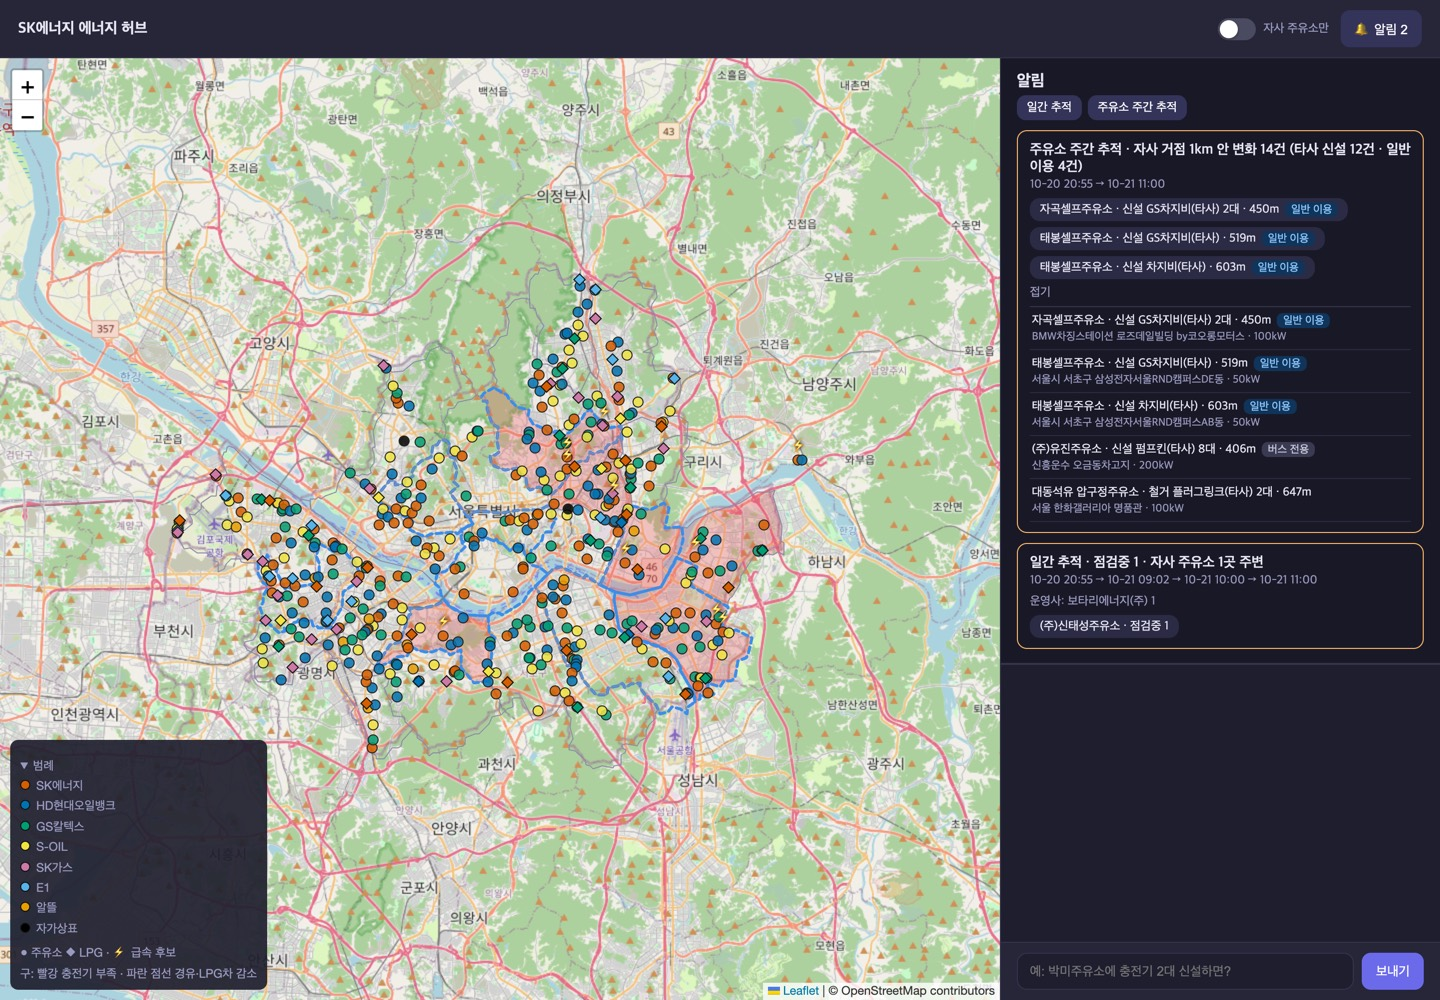
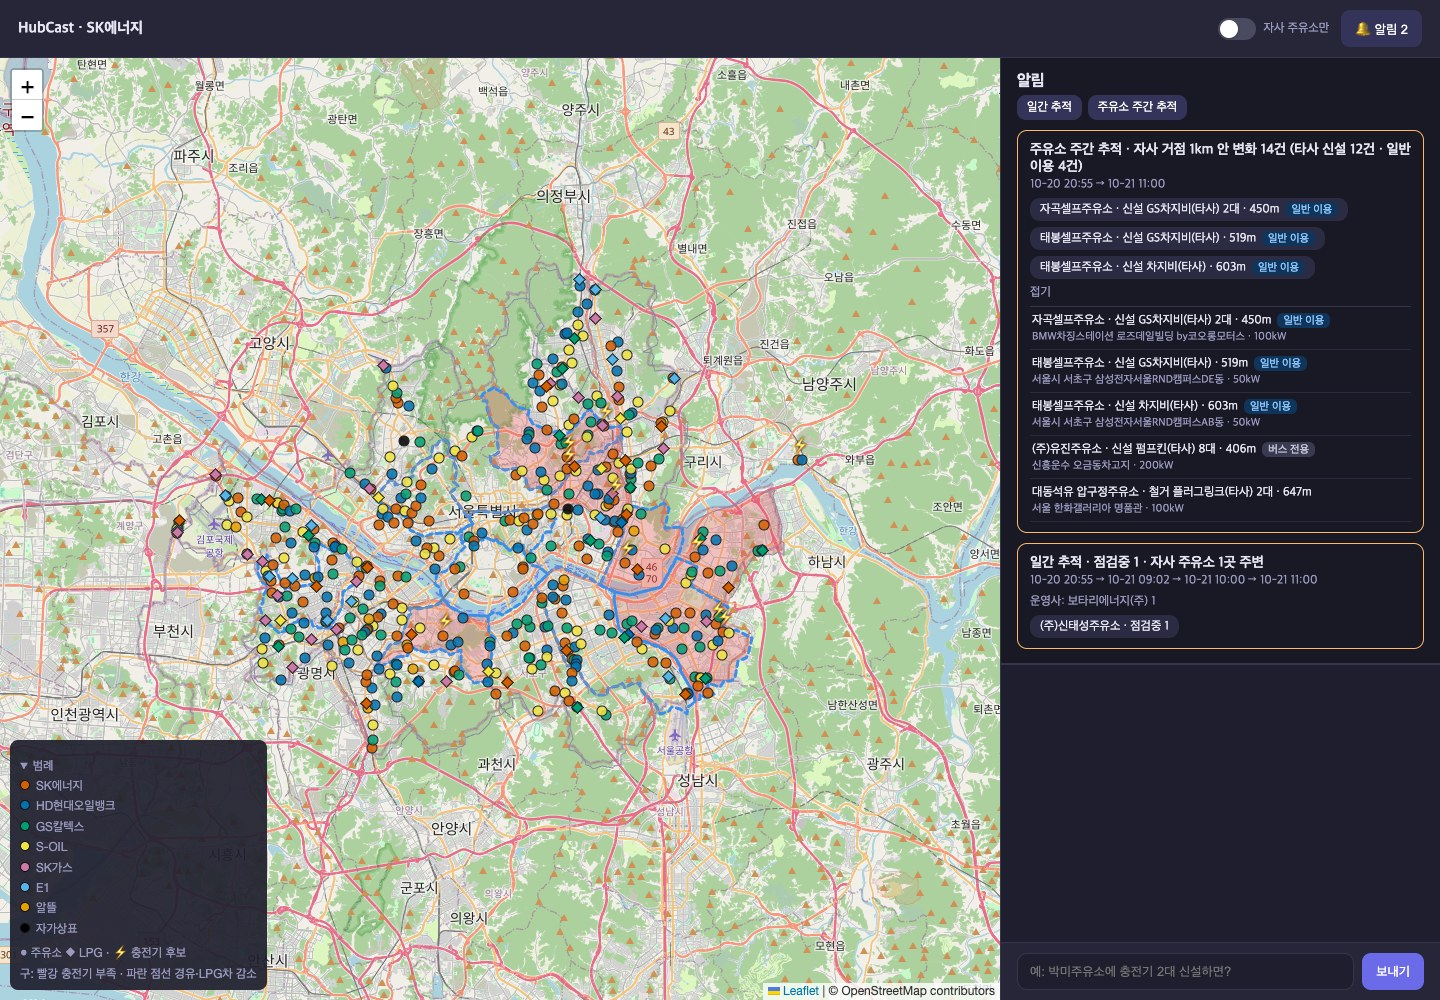
fix: 서비스명 HubCast 반영
- README 제목과 대시보드 탭·헤더를 HubCast로 변경

diff --git a/web_chat.html b/web_chat.html
@@ -3,7 +3,7 @@
 <head>
 <meta charset="utf-8" />
 <meta name="viewport" content="width=device-width, initial-scale=1" />
-<title>에너지 허브 대시보드</title>
+<title>HubCast</title>
 <link rel="stylesheet" href="https://unpkg.com/leaflet@1.9.4/dist/leaflet.css" />
 <style>
   :root { color-scheme: dark; --bg: #1e1e2e; --panel: #191926; --line: #34344a; --muted: #9a9ac0; --text: #e6e6f2; --accent: #6b6bea; }
@@ -126,7 +126,7 @@
 <body>
 <div id="app">
   <header>
-    <b>{{ company }} 에너지 허브</b>
+    <b>HubCast · {{ company }}</b>
     <label class="switch"><input type="checkbox" v-model="ownOnly" role="switch" /><span class="track"><span class="knob"></span></span> 자사 주유소만</label>
     <button type="button" class="ghost" @click="showAlerts">🔔 알림 {{ unread }}</button>
   </header>
@@ -163,10 +163,10 @@
             <div class="tile"><div class="v">{{ signed(panel.district.demand.fuels['경유'].rate_pct) }}%</div><div class="k">경유차 1년</div></div>
           </div>
           <div v-if="candidates.length" class="chips">
-            <span class="hint">⚡ 급속 후보</span>
+            <span class="hint">⚡ 충전기 후보</span>
             <span v-for="s in candidates" :key="s.station_id" class="chip" @click="focusStation(s.station_id)">{{ s.name }}</span>
           </div>
-          <div v-else class="why">급속 후보 없음 — 충전기 부족 구가 아님</div>
+          <div v-else class="why">충전기 후보 없음 — 충전기 부족 구가 아님</div>
           <details>
             <summary>거점 전체 · 연료별 수치</summary>
             <table>
@@ -284,7 +284,7 @@ const esc = s => String(s).replace(/[&<>"']/g, c => ({ '&': '&amp;', '<': '&lt;'
 // 화면에서는 출처 번호를 숨기고 "출처 번호 보기"로 펼친다 — 번호는 검증용이라 읽기에 방해가 됨
 const stripCites = t => t.replace(/\[[FJ]\d+\]/g, '').replace(/[ \t]+/g, ' ').trim();
 const ITEM_NAMES = { ev_bottleneck: '충전기 부족', diesel_idle: '경유차 감소', lpg_idle: 'LPG차 감소',
-  fast_candidates: '급속 후보', ev_bottleneck_before: '추가 전 부족', ev_bottleneck_after: '추가 후 부족' };
+  fast_candidates: '충전기 후보', ev_bottleneck_before: '추가 전 부족', ev_bottleneck_after: '추가 후 부족' };
 
 createApp({
   setup() {
@@ -400,7 +400,7 @@ createApp({
         const open = window.innerWidth > 900 ? ' open' : '';
         div.innerHTML = `<details${open}><summary>범례</summary>`
           + Object.entries(BRAND_COLORS).map(([b, c]) => `<div><i style="background:${c}"></i>${esc(b)}</div>`).join('')
-          + '<div style="margin-top:4px">● 주유소 ◆ LPG · ⚡ 급속 후보</div>'
+          + '<div style="margin-top:4px">● 주유소 ◆ LPG · ⚡ 충전기 후보</div>'
           + '<div>구: 빨강 충전기 부족 · 파란 점선 경유·LPG차 감소</div></details>';
         L.DomEvent.disableClickPropagation(div);
         return div;
@@ -431,7 +431,7 @@ createApp({
     // ── 정보 패널 ───────────────────────────────────────────────
     function stationWhy(card) {
       if (card.verdict.code === 'fast_candidate') return '⚡ ' + card.verdict.reasons.join(' · ');
-      const reasons = card.verdict.reasons.length ? card.verdict.reasons.join(' · ') : '급속 후보 조건에 해당하지 않음';
+      const reasons = card.verdict.reasons.length ? card.verdict.reasons.join(' · ') : '충전기 후보 조건에 해당하지 않음';
       const idle = (card.fuel_signals || []).filter(f => f.idle).map(f => `${f.fuel}차 감소 큰 구`).join(' · ');
       return idle ? `${reasons} · 🔻 ${idle}` : reasons;
     }

diff --git a/agent/answer_template.py b/agent/answer_template.py
@@ -74,7 +74,7 @@ class EnergyAnswer:
         c = self.cite
         chosen = self.value("fast_candidates") or []
         candidate = station_id in chosen
-        verdict = "⚡ 급속 후보입니다" if candidate else "이번 기준으로는 급속 후보가 아닙니다"
+        verdict = "⚡ 충전기 후보입니다" if candidate else "이번 기준으로는 충전기 후보가 아닙니다"
         lines = [f"4) 이 주유소: 주유소 안 급속 {c('in_station_fast_ids', '{}개')} · "
                  f"1km 안 급속 {c('fast_1km', '{}개')}{self.versus_typical()} "
                  f"→ {verdict}{self.j('fast_candidates')}"]
@@ -88,20 +88,20 @@ class EnergyAnswer:
     def cluster_lines(self) -> list[str]:
         chosen = self.value("fast_candidates") or []
         if not chosen:
-            return [f"4) 급속 후보{self.j('fast_candidates')}: 없음 (충전기 부족 구가 아님)"]
+            return [f"4) 충전기 후보{self.j('fast_candidates')}: 없음 (충전기 부족 구가 아님)"]
         marks = "①②③④"
         pri = self.priority()
         if pri.get("by") == "llm":
             picks = [f"{marks[i]} {self.name(sid)} — {pri['reasons'][sid]['text']}"
                      for i, sid in enumerate(chosen)]
-            head = f"4) 급속 후보{self.j('fast_candidates')} — 먼저 볼 순서 (AI 판단): "
+            head = f"4) 충전기 후보{self.j('fast_candidates')} — 먼저 볼 순서 (AI 판단): "
         else:
             picks = [f"{marks[i]} {self.name(sid)} — 1km 안 급속 {self.cite(f'fast_1km:{sid}', '{}개')}, "
                      f"주유소 안 급속 {self.cite(f'in_station_fast:{sid}', '{}개')}"
                      for i, sid in enumerate(chosen)]
-            head = f"4) 급속 후보{self.j('fast_candidates')}: "
+            head = f"4) 충전기 후보{self.j('fast_candidates')}: "
             if pri.get("by") == "fallback":
-                head = (f"4) 급속 후보{self.j('fast_candidates')} — AI 우선순위 판단이 검사를 "
+                head = (f"4) 충전기 후보{self.j('fast_candidates')} — AI 우선순위 판단이 검사를 "
                         "통과하지 못해 1km 안 급속이 적은 순: ")
         return [head + "  ".join(picks),
                 f"   나머지 주유소는 유지 (같은 구 자사 주유소 보통 1km 안 급속 "
@@ -233,14 +233,14 @@ class EnergyAnswer:
         chosen = self.value("fast_candidates") or []
         if request_type == "station":
             station_id = self.by_key["station"]["station_id"]
-            head = "급속 후보 아님"
+            head = "충전기 후보 아님"
             if station_id in chosen:
-                head = "⚡ 급속 후보"
+                head = "⚡ 충전기 후보"
                 if len(chosen) > 1:
                     head += f" — 같은 구 후보 {len(chosen)}곳 중 {ORDINALS[chosen.index(station_id)]}"
             parts = [head, ev]
         else:
-            first = f"급속 후보 {len(chosen)}곳 — 먼저 {self.name(chosen[0])}" if chosen else "급속 후보 없음"
+            first = f"충전기 후보 {len(chosen)}곳 — 먼저 {self.name(chosen[0])}" if chosen else "충전기 후보 없음"
             parts = [ev, first]
         return "요약: " + " · ".join(parts + idle)
 

diff --git a/agent/energy_prompts.py b/agent/energy_prompts.py
@@ -265,7 +265,7 @@ def normalize_judgement(content: str, request_type: str, facts: list[dict]) -> d
 # ── 분석 에이전트: 어디부터, 왜 ─────────────────────────────────────
 
 PRIORITY_SYSTEM = (
-    "당신은 정유사 투자 검토를 돕는 분석 에이전트다. 아래 급속 후보 거점들은 이미 기준으로 자격이 확정됐다. "
+    "당신은 정유사 투자 검토를 돕는 분석 에이전트다. 아래 충전기 후보 거점들은 이미 기준으로 자격이 확정됐다. "
     "어느 거점부터 현장 검토할지 순서와 이유를 정하라. 정답 규칙은 없다 — 사실을 저울질하는 것이 당신의 일이다.\n"
     "고려할 신호: 반경 1km 급속 수(적을수록 새 수요를 흡수할 여지), 충전 중 비율(높을수록 수요 확인, 한 시점 대리 지표), "
     "주변 새로 멈춘 급속(대체 수요가 생김), 타사 신설(경쟁이 세짐), 지난 사람 결정(보류면 사유 해소 전엔 뒤로).\n"
@@ -295,7 +295,7 @@ def priority_user(facts: list[dict], candidates: list[str]) -> str:
     """우선순위 판단 프롬프트의 사용자 메시지를 만드는 함수"""
     names = {f["station_id"]: f.get("name", f["station_id"]) for f in facts if f.get("station_id")}
     listed = "\n".join(f"- {sid} {names.get(sid, '')}" for sid in candidates)
-    return f"## 확정된 급속 후보\n{listed}\n\n## 후보 거점 사실\n{render_facts(facts)}"
+    return f"## 확정된 충전기 후보\n{listed}\n\n## 후보 거점 사실\n{render_facts(facts)}"
 
 
 def normalize_priority(content: str, candidates: list[str]) -> dict:
@@ -317,7 +317,7 @@ WRITE_SYSTEM = (
     "당신은 정유사 리테일 네트워크 관리자에게 보고하는 작성 에이전트다. 한국어로 짧게 쓴다.\n"
     "'답변 뼈대'를 읽기 쉬운 보고 문장으로 다듬어라. 규칙:\n"
     "1. 뼈대의 줄 순서, 모든 숫자, [F번호]·[J번호]를 그대로 남긴다. 숫자를 빼거나 바꾸거나 새로 만들지 않는다\n"
-    "2. 결론(충전기 부족·차량 감소·급속 후보)은 뼈대와 같아야 한다\n"
+    "2. 결론(충전기 부족·차량 감소·충전기 후보)은 뼈대와 같아야 한다\n"
     "3. 판매량·부지·전력처럼 사실에 없는 정보는 말하지 않는다\n"
     "4. 뼈대의 '현장 확인 항목' 줄과 마지막 안내 문장은 글자 그대로 둔다\n"
     "5. 뼈대에 없는 줄·제목·항목(예: 새 '현장 확인 항목', '안내')을 덧붙이지 않는다\n"

diff --git a/agent/fake_llm.py b/agent/fake_llm.py
@@ -131,7 +131,7 @@ class QualityLLM(FakeLLM):
 
     @traceable(run_type="llm", name="quality_llm.judge_energy")
     def judge_energy(self, request_type: str, facts: list[dict]) -> tuple[dict, dict]:
-        """분석 에이전트 판별(fake) — 사실 [F]만 보고 충전기 부족·차량 감소·급속 후보를 판별하는 함수
+        """분석 에이전트 판별(fake) — 사실 [F]만 보고 충전기 부족·차량 감소·충전기 후보를 판별하는 함수
 
         의도적 오판 1건: 경유는 감소율 순위 사실을 보지 않고 "줄었으면 차량 감소"로 판별한다.
         동대문구(경유 -4.8%, 25구 중 24위)에서 권위 게이트가 이를 교정하는 장면이 매번 재현된다.
@@ -203,11 +203,11 @@ class QualityLLM(FakeLLM):
 
     @traceable(run_type="llm", name="quality_llm.prioritize")
     def prioritize(self, facts: list[dict], candidates: list[str]) -> tuple[dict, dict]:
-        """급속 후보 우선순위 판단(fake) — 보류 결정은 뒤로, 충전 중 비율이 높고 주변 급속이 적은 곳부터
+        """충전기 후보 우선순위 판단(fake) — 보류 결정은 뒤로, 충전 중 비율이 높고 주변 급속이 적은 곳부터
 
         Args:
             facts: 후보 거점들의 사실
-            candidates: 확정된 급속 후보
+            candidates: 확정된 충전기 후보
         Returns:
             ({"order", "reasons", "summary"}, 사용량)
         """

diff --git a/tests/test_summary_line.py b/tests/test_summary_line.py
@@ -7,16 +7,16 @@ def _summary(result):
 
 def test_station_summary(ask):
     first = ask("이 주유소에 무엇을 더해야 해?", station_id="A0009172")
-    assert _summary(first) == "요약: ⚡ 급속 후보 — 같은 구 후보 2곳 중 첫 번째 · 충전기 부족 구"
+    assert _summary(first) == "요약: ⚡ 충전기 후보 — 같은 구 후보 2곳 중 첫 번째 · 충전기 부족 구"
     other = ask("이 주유소에 무엇을 더해야 해?", station_id="A0001146")          # 금천 박미
-    assert _summary(other).startswith("요약: 급속 후보 아님 · 충전기 부족 아님")
+    assert _summary(other).startswith("요약: 충전기 후보 아님 · 충전기 부족 아님")
 
 
 def test_district_summary_names_first_candidate_and_idle_signal(ask):
     assert _summary(ask("동대문구 SK 거점 어떻게 써?", gu="동대문구")) == \
-        "요약: 충전기 부족 구 · 급속 후보 2곳 — 먼저 풍한주유소"
+        "요약: 충전기 부족 구 · 충전기 후보 2곳 — 먼저 풍한주유소"
     gangnam = _summary(ask("강남구 SK 거점 어떻게 써?", gu="강남구"))
-    assert gangnam == "요약: 충전기 부족 아님 · 급속 후보 없음 · 경유차 감소 큰 구 · LPG차 감소 큰 구"
+    assert gangnam == "요약: 충전기 부족 아님 · 충전기 후보 없음 · 경유차 감소 큰 구 · LPG차 감소 큰 구"
 
 
 def test_scenario_and_public_summary(ask):

diff --git a/mcp_server.py b/mcp_server.py
@@ -122,7 +122,7 @@ def score_district(gu: str) -> dict:
 
 @mcp.tool()
 def review_cluster(gu: str, brand: str = "SK에너지") -> dict:
-    """자치구 안 자사 거점 묶음의 거점별 기준 판정(⚡ 급속 후보/유지)과 연료 신호를 반환합니다. 권위 게이트 전용입니다."""
+    """자치구 안 자사 거점 묶음의 거점별 기준 판정(⚡ 충전기 후보/유지)과 연료 신호를 반환합니다. 권위 게이트 전용입니다."""
     if not _known_gu(gu):
         return _error("없는 자치구", gu=gu)
     return _with_meta(_review_cluster(SNAPSHOT, gu, brand), "energy/rules/cluster.py")
@@ -193,7 +193,7 @@ def district_review_prompt(gu: str, brand: str = "SK에너지") -> str:
 1. 수요: 5개 연료 1년 증감 (get_fuel_demand)
 2. 공급: 급속 밀도·충전 중 비율, 수소 대기 (get_ev_supply, get_h2_status)
 3. 신호: 사실 번호 [F]를 인용해 전기 병목·경유/LPG 유휴 위험을 판별
-4. 묶음 역할: 거점별 반경 1km 급속 수를 비교해 급속 후보와 우선순위·이유를 판별
+4. 묶음 역할: 거점별 반경 1km 급속 수를 비교해 충전기 후보와 우선순위·이유를 판별
 5. 현장 확인: 한전 전력 인입 용량·안전거리는 데이터가 없으므로 사람에게 넘김
 
 숫자는 Tool 결과만 쓰고, 투자 결정이 아니라 진단임을 밝히세요.

diff --git a/agent/energy_llm.py b/agent/energy_llm.py
@@ -63,7 +63,7 @@ class EnergyQualityMixin:
 
     @traceable(run_type="llm", name="energy.judge")
     def judge_energy(self, request_type: str, facts: list[dict]) -> tuple[dict, dict]:
-        """사실 [F]만 보고 충전기 부족·차량 감소·급속 후보(또는 신설 전후 충전기 부족)를 판별하는 함수
+        """사실 [F]만 보고 충전기 부족·차량 감소·충전기 후보(또는 신설 전후 충전기 부족)를 판별하는 함수
 
         Args:
             request_type: "station" | "district" | "scenario"
@@ -78,11 +78,11 @@ class EnergyQualityMixin:
 
     @traceable(run_type="llm", name="energy.prioritize")
     def prioritize(self, facts: list[dict], candidates: list[str]) -> tuple[dict, dict]:
-        """확정된 급속 후보 중 어디부터 볼지 순서와 이유를 판단하는 함수 (기준 없는 판단)
+        """확정된 충전기 후보 중 어디부터 볼지 순서와 이유를 판단하는 함수 (기준 없는 판단)
 
         Args:
             facts: 후보 거점들의 사실
-            candidates: 확정된 급속 후보
+            candidates: 확정된 충전기 후보
         Returns:
             ({"order", "reasons", "summary"}, 사용량)
         """

diff --git a/agent/validation.py b/agent/validation.py
@@ -88,14 +88,14 @@ def check_answer(draft: str, facts: list[dict], verdicts: dict) -> list[str]:
 
 
 def check_priority(result: dict, candidates: list[str], facts: list[dict]) -> list[str]:
-    """AI의 급속 후보 우선순위 판단이 쓸 수 있는지 코드로 확인하는 함수
+    """AI의 충전기 후보 우선순위 판단이 쓸 수 있는지 코드로 확인하는 함수
 
     순서·이유 자체는 기준이 없어 고치지 않는다. 확정 후보만 썼는지, 이유가 그 거점의 사실을
     인용했는지, 이유에 근거 없는 숫자가 없는지만 본다.
 
     Args:
         result: {"order", "reasons": {station_id: {"text", "facts"}}}
-        candidates: 권위 게이트가 확정한 급속 후보
+        candidates: 권위 게이트가 확정한 충전기 후보
         facts: 번호 붙은 사실 목록
     Returns:
         문제 목록 (비어 있으면 채택)

diff --git a/agent/facts.py b/agent/facts.py
@@ -230,11 +230,11 @@ def build_competition_facts(summary: dict) -> list[dict]:
 
 def build_priority_facts(start: int, candidates: list[str], names: dict, competition: dict,
                          watch: dict, weekly: dict) -> list[dict]:
-    """급속 후보마다 우선순위 판단에 쓸 신호(주변 운영사·새 고장·타사 신설)를 사실로 만드는 함수
+    """충전기 후보마다 우선순위 판단에 쓸 신호(주변 운영사·새 고장·타사 신설)를 사실로 만드는 함수
 
     Args:
         start: 이미 있는 사실 수 (번호를 이어 붙임)
-        candidates: 확정된 급속 후보 주유소 번호
+        candidates: 확정된 충전기 후보 주유소 번호
         names: 주유소 번호 → 이름
         competition: 주유소 번호 → get_nearby_competition 결과
         watch: detect_anomalies 결과 (자치구 범위)

diff --git a/tests/test_energy_prompts.py b/tests/test_energy_prompts.py
@@ -62,7 +62,7 @@ def test_write_prompt_contains_facts_verdicts_and_musts():
     FACTS_WITH_MEDIAN = FACTS + [{"id": "F4", "key": "cluster_median_fast_1km", "label": "묶음 중앙값",
                                   "value": 26.0, "unit": "ID", "source": "s"}]
     system, user, skeleton = p.write_prompt("district", FACTS_WITH_MEDIAN, verdicts, [], True, [], ("부지",),
-                                  {"fast_candidates": "묶음 급속 후보"}, None, ["근거 없는 숫자: 320.0"])
+                                  {"fast_candidates": "묶음 충전기 후보"}, None, ["근거 없는 숫자: 320.0"])
     assert "[F2] 풍한주유소 (주유소) 반경 1km 급속 ID: 10 ID" in user
     assert "## 답변 뼈대" in user and "풍한주유소 — 1km 안 급속 10개[F2]" in user
     assert "현장 확인 항목: 부지" in user and "근거 없는 숫자: 320.0" in user

diff --git a/eval/run_eval.py b/eval/run_eval.py
@@ -190,7 +190,7 @@ def to_markdown(backend: str, rows: list[dict], summary: dict) -> str:
              f"(판별 항목 {summary['judged_items']}개, 게이트 교정 {summary['gate_corrections']}건)",
              f"- 검증 합격 {summary['validation_passed']}/{summary['cases']}, "
              f"응답 시간 중앙값 {summary['median_seconds']}초",
-             f"- 급속 후보 우선순위(AI 판단, 기준 없음): 검사 통과해 채택 {summary['priority_llm']}/"
+             f"- 충전기 후보 우선순위(AI 판단, 기준 없음): 검사 통과해 채택 {summary['priority_llm']}/"
              f"{summary['priority_cases']}, 반복 {REPEAT}회 같은 순서 {summary['priority_same_order']}/"
              f"{summary['priority_repeat_cases']} (반복 실행 채택 {summary['priority_repeat_llm']}/"
              f"{summary['priority_repeat_runs']})", "",
